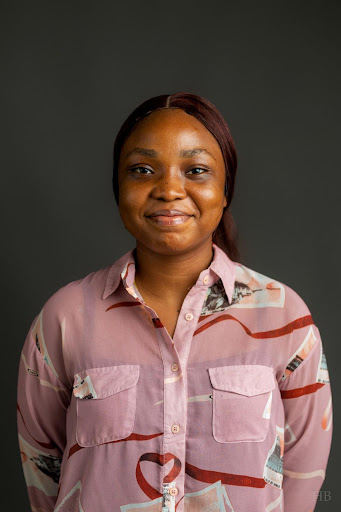
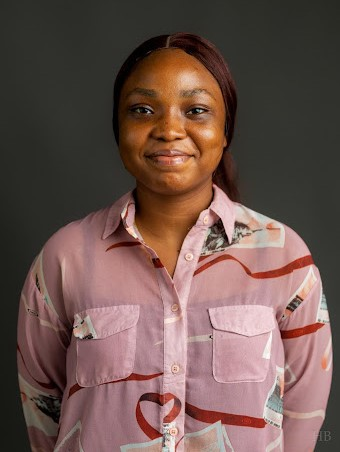
Editing team pictures

diff --git a/src/components/Team.js b/src/components/Team.js
@@ -119,11 +119,12 @@ const Team = () => {
               className='bg-white hover:bg-[#1D3B8A] hover:text-white transition duration-300 group md:w-full'
             >
               <div>
-                <img
-                  src={item.image}
-                  alt=''
-                  className='w-full h-64 object-cover object-top lg:h-80 xl:h-96'
-                />
+              <img
+  src={item.image}
+  alt=''
+  className='w-full h-64 object-cover lg:object-top object-top lg:h-80 xl:h-96'
+/>
+
               </div>
 
               <div className='px-5 py-10 flex justify-between items-center'>
